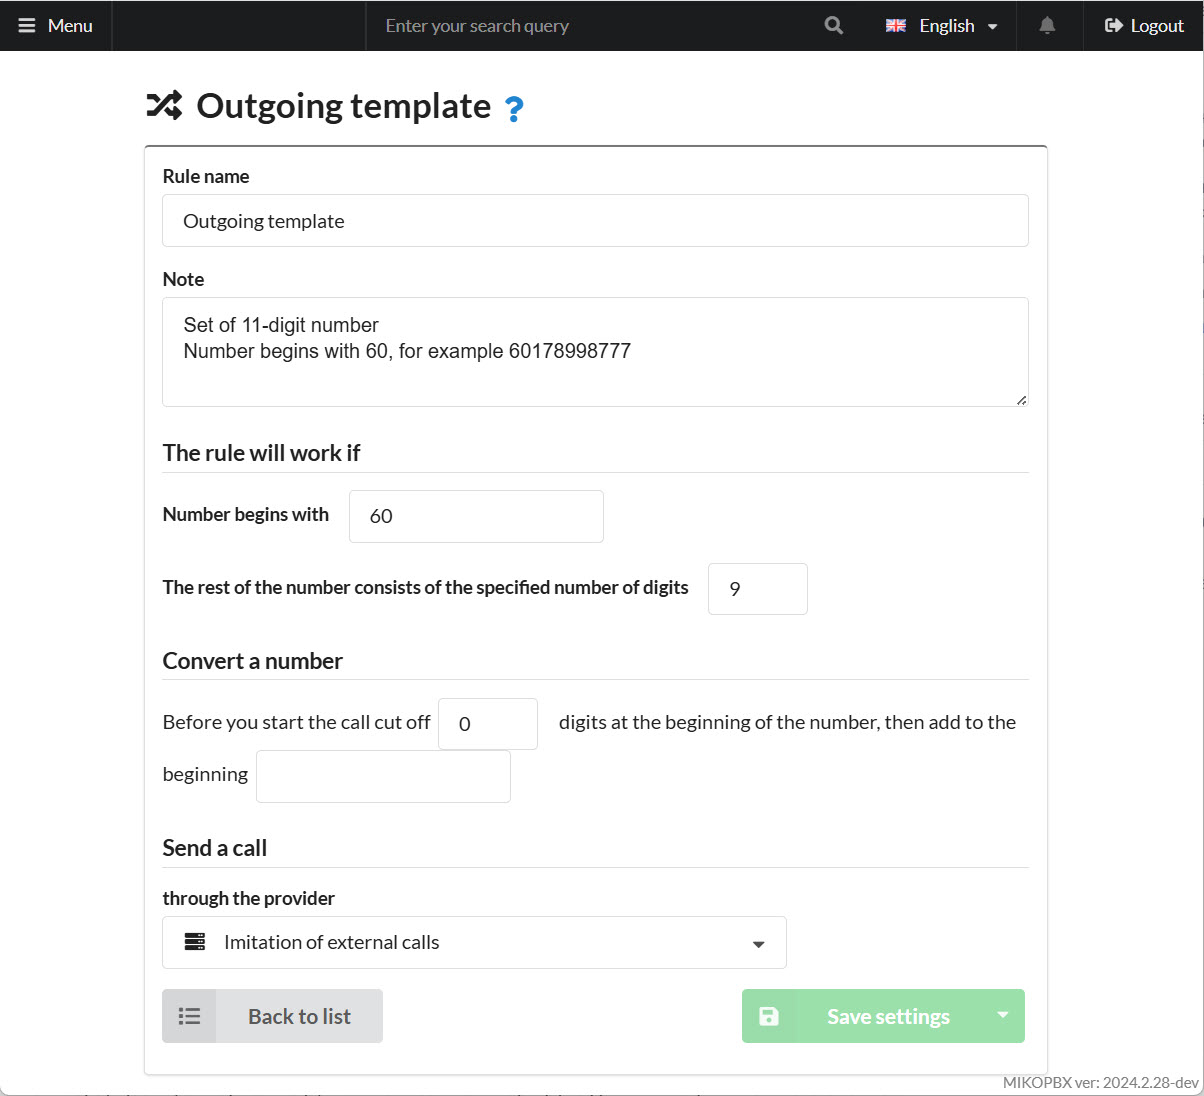
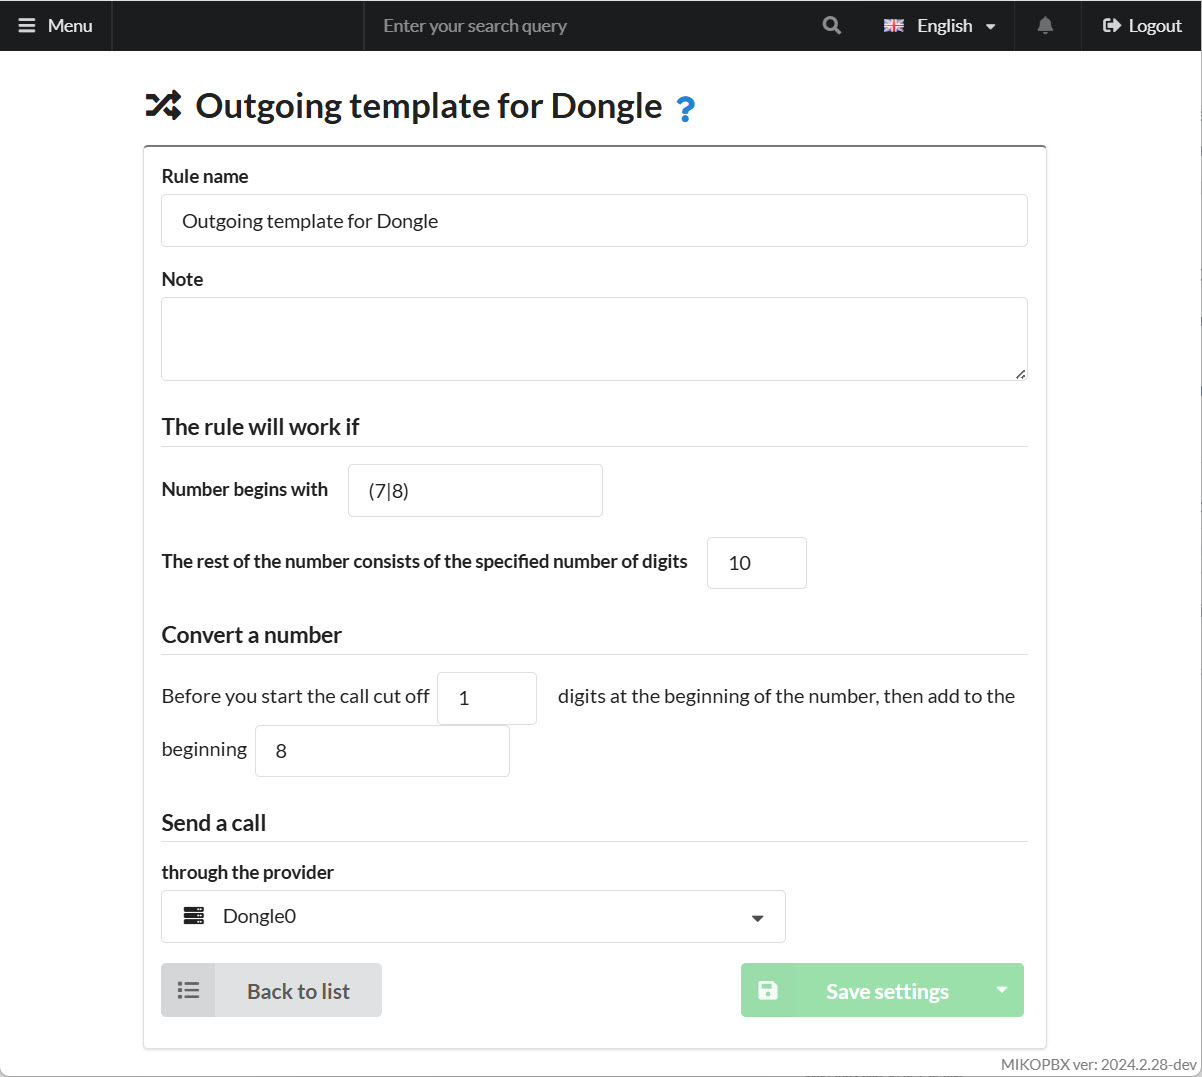
GITBOOK-414: No subject

diff --git a/faq/voip-gateways/calls-through-huawei-e173.md b/faq/voip-gateways/calls-through-huawei-e173.md
@@ -1,0 +1,242 @@
+---
+description: Connecting a Huawei E173 3G USB modem to MikoPBX via chan_dongle
+---
+
+# Using a Huawei E173 USB Modem for Calls (chan\_dongle)
+
+The **Huawei E173** is a USB 3G modem from Huawei that is compatible with the **chan\_dongle** module for Asterisk. By using this modem with chan\_dongle, you can configure Asterisk to make voice calls and send SMS messages over the GSM network, effectively turning the modem into a full-fledged GSM gateway.
+
+{% hint style="warning" %}
+Dongle modems can be unstable. They require reliable, stable power and a strong GSM signal.
+{% endhint %}
+
+## Preparing the USB Modem
+
+1. First, let’s see which USB devices are connected to the PC:
+
+```php
+lsusb
+Bus 001 Device 002: ID 12d1:1001 Huawei Technologies Co., Ltd. E169/E620/E800 HSDPA Modem
+Bus 001 Device 001: ID 1d6b:0002 Linux Foundation 2.0 root hub
+Bus 002 Device 003: ID 0e0f:0002 VMware, Inc. Virtual USB Hub
+Bus 002 Device 002: ID 0e0f:0003 VMware, Inc. Virtual Mouse
+Bus 002 Device 001: ID 1d6b:0001 Linux Foundation 1.1 root hub
+```
+
+We’re interested in the device **"12d1:1001 Huawei Technologies..."**.
+
+* **12d1** – the vendor ID.
+* **1001** – the product ID.
+
+For the modem to function properly, you need to switch it to **"1001"** (modem-only mode).
+
+2. Next, search for device info using the vendor ID **"12d1"**:
+
+```
+dmesg | grep 12d1
+[    2.828272] usb 1-1: New USB device found, idVendor=12d1, idProduct=1001, bcdDevice= 0.00
+```
+
+3. Then check for info by the USB device number **"usb 1-1"**:
+
+```php
+dmesg | grep 'usb 1-1'
+
+[    2.262750] usb 1-1: new high-speed USB device number 2 using ehci-pci
+[    2.828272] usb 1-1: New USB device found, idVendor=12d1, idProduct=1001, bcdDevice= 0.00
+[    2.828479] usb 1-1: New USB device strings: Mfr=3, Product=2, SerialNumber=0
+[    2.828641] usb 1-1: Product: HUAWEI Mobile
+[    2.828754] usb 1-1: Manufacturer: HUAWEI Technology
+[    2.856994] usb 1-1: GSM modem (1-port) converter now attached to ttyUSB0
+[    2.861194] usb 1-1: GSM modem (1-port) converter now attached to ttyUSB1
+[    2.864265] usb 1-1: GSM modem (1-port) converter now attached to ttyUSB2
+```
+
+We see the modem’s serial devices: **ttyUSB0, ttyUSB1, ttyUSB2**.
+
+{% hint style="info" %}
+If these devices appear, half the work is done. If they’re missing, the modem may be in a mode other than **1001**. The product ID can vary with different firmware versions.
+
+On some devices, modem-only mode may appear as **"140c"**.
+{% endhint %}
+
+## Checking the Modem Settings
+
+```
+minicom -D /dev/ttyUSB0
+```
+
+You’ll see something like:
+
+```
+Welcome to minicom 2.8
+
+OPTIONS: I18n
+Compiled on Apr 26 2021, 18:06:16.
+Port /dev/ttyUSB0, 12:30:42
+
+Press CTRL-A Z for help on special keys
+```
+
+You can now enter **AT** commands to manage and configure the modem.
+
+## Example Commands
+
+* **AT^CARDLOCK?** – Checks SIM lock status and the remaining attempts to enter an unlock code. (The modem’s response: `CARDLOCK: A,B,0`. If A=2, modem is unlocked; A=1, locked — SimLock; A=3, you either used all 10 attempts or have a customized firmware. B is the remaining number of attempts, typically 10.)
+* **AT^CARDLOCK="NCK Code"** – Unlock the modem to work with all mobile operators (if you have the code).
+* **AT^CVOICE=?** – Checks the modem’s voice support state (0 means voice is enabled).
+* **AT^CVOICE=0** – Enables voice functions on the modem.
+* **AT^U2DIAG=0** – Switch the modem into **modem-only** mode.
+
+## What to Verify?
+
+1. Confirm the modem **supports voice** functions.
+2. The modem must be in **"modem-only"** mode (ID **1001**).
+3. If possible (and if you have a code), **unlock** the modem for use with any operator.
+
+## chan\_dongle for Asterisk
+
+1. In the MikoPBX web interface, go to **System → Customize System Files**.
+2. Open **`/etc/asterisk/modules.conf`**.
+3. Set the mode to **"Append to the end of the file"**.
+4. Add:
+
+```
+load => chan_dongle.so
+```
+
+5. Open **`/etc/asterisk/dongle.conf`** for editing.
+6. Choose **"Replace Completely"**.
+7. Paste the following configuration:
+
+```php
+[general]
+interval=15
+
+[defaults]
+context=public-direct-dial
+group=0
+rxgain=0
+txgain=0
+autodeletesms=yes
+resetdongle=yes
+u2diag=-1
+usecallingpres=yes
+callingpres=allowed_passed_screen
+disablesms=no
+
+language=en
+smsaspdu=yes
+mindtmfgap=45
+mindtmfduration=80
+mindtmfinterval=200
+
+callwaiting=auto
+disable=no
+initstate=start
+dtmf=relax
+
+[dongle0]
+audio=/dev/ttyUSB1
+data=/dev/ttyUSB2
+```
+
+8. Re-open **`/etc/asterisk/modules.conf`**.
+9. Again choose **"Append to the end of the file"**.
+10. Add contexts for **SMS** and **USSD** handling:
+
+```php
+[dongle-incoming-ussd]
+exten => ussd,1,Noop(Incoming USSD: ${BASE64DECODE(${USSDBASE64})})
+exten => ussd,n,Hangup()
+
+[dongle-incoming-sms]
+exten => sms,1,Noop(Incoming SMS from ${CALLERID(num)} ${BASE64_DECODE(${SMS_BASE64})})
+exten => sms,n,Hangup()
+```
+
+11. After configuring **dongle.conf**, you must **restart** your PBX.
+
+{% hint style="info" %}
+**Helpful resources:**
+
+* See the [dongle.conf file](https://github.com/haha8x/asterisk-chan-dongle-16/blob/master/etc/dongle.conf) for a description of configuration and options.
+* More details in [chan\_dongle documentation](https://asterisk-service.com/en_US/page/chan-dongle-use).
+{% endhint %}
+
+{% hint style="danger" %}
+* **dongle0** is an arbitrary name of the line. It will be used in the Dial command for outgoing calls.
+* **audio** and **data** are the TTY device paths discovered in the previous step. You may need to swap them if there’s no audio.
+{% endhint %}
+
+## Configuring DID
+
+Each **dongle** requires a DID number for correct inbound call handling.
+
+1. Enter the Asterisk console:
+
+```bash
+asterisk -r
+```
+
+2. List the dongle devices:
+
+```
+mikopbx*CLI> dongle show devices
+ID      Group State RSSI Model Firmware         IMEI IMSI Number
+dongle0 0     Free  12   E173  11.126.15.00.209 ***  ***  79255283744
+```
+
+3. If the `Number` column is empty, run:
+
+```bash
+dongle cmd dongle0 AT+CPBS="ON"
+dongle cmd dongle0 AT+CPBW=1,"79255283744",145
+```
+
+{% hint style="warning" %}
+Replace **dongle0** with your line’s identifier, and **"79255283744"** with the SIM’s phone number.&#x20;
+{% endhint %}
+
+Restart your PBX afterwards.
+
+## Configuring an Inbound Route
+
+1. In the web interface, go to **Call** **Routing → Incoming Routing**.
+
+<figure><img src="../../.gitbook/assets/IncomingRoutingSection.png" alt=""><figcaption><p>"Incoming routing" section</p></figcaption></figure>
+
+2. Create a new rule. In the DID field, specify the SIM’s phone number you set earlier:
+
+<figure><img src="../../.gitbook/assets/didInwardDialingNumber.jpg" alt=""><figcaption><p>DID Number field</p></figcaption></figure>
+
+## Configuring Outbound Routes
+
+1. In **Call** **Routing → Providers**, create a new **SIP** account with:
+   * **Name** – “Dongle0” (or any name)
+   * **Host or IP** – **127.0.0.1**
+   * **Account Type** – “Authentication by IP address, no password”
+
+<figure><img src="../../.gitbook/assets/providerParameters.jpg" alt=""><figcaption><p>Provider Parameters</p></figcaption></figure>
+
+2. Copy the **Provider ID** from the browser address bar (e.g., **SIP-TRUNK-C4153448**).
+
+<figure><img src="../../.gitbook/assets/providerIdentificator.jpg" alt=""><figcaption><p>Provider ID</p></figcaption></figure>
+
+3. In **Call** **Routing → Outbound Routing**, create a new rule for sending calls via the modem:
+
+<figure><img src="../../.gitbook/assets/outgoingTemplate.jpg" alt=""><figcaption><p>Outbound route</p></figcaption></figure>
+
+4. Go to **System → System file customization** and open **`/etc/asterisk/extensions.conf`**. Choose “**Add to end of file**” and add:
+
+```php
+[SIP-TRUNK-C4153448-outgoing-custom]
+exten => _[0-9*#+]!,1,Set(DIAL_COMMAND=Dongle/dongle0/${number})
+ same => n,return
+```
+
+{% hint style="info" %}
+Replace **SIP-TRUNK-C4153448** and **dongle0** with your IDs.
+{% endhint %}
+
+<figure><img src="../../.gitbook/assets/contextForExtensionsConf.jpg" alt=""><figcaption><p>Code for the file "extensions.conf"</p></figcaption></figure>

diff --git a/faq/voip-gateways/goip4.md b/faq/voip-gateways/goip4.md
@@ -22,7 +22,7 @@ In this example, the GoIP4 gateway will register to MikoPBX.&#x20;
 * **Username** – The provider ID (e.g., “SIP-TRUNK-53A707FC”)
 * **Password** – A strong password for gateway registration on MikoPBX
 
-<figure><img src="../../.gitbook/assets/providerParameters (1).jpg" alt=""><figcaption><p>Provider Parameters</p></figcaption></figure>
+<figure><img src="../../.gitbook/assets/providerParameters (1) (1).jpg" alt=""><figcaption><p>Provider Parameters</p></figcaption></figure>
 
 2. In the provider’s **Advanced Settings**, under **Advanced Options**, add:
 

diff --git a/faq/cases/simulation-of-external-calls.md b/faq/cases/simulation-of-external-calls.md
@@ -79,7 +79,7 @@ For the simulation provider to work properly, you must define both incoming and 
 
 ### Outbound Routing
 
-<figure><img src="../../.gitbook/assets/outgoingTemplate (1).jpg" alt=""><figcaption><p>Outgoing Template</p></figcaption></figure>
+<figure><img src="../../.gitbook/assets/outgoingTemplate (1) (1).jpg" alt=""><figcaption><p>Outgoing Template</p></figcaption></figure>
 
 Alternatively, you can manually describe a route for simulating external calls (add this at the end of the **"extensions.conf"** file in **"System file customization"**):
 

diff --git a/faq/interconnections/mikopbx-and-freepbx-iax.md b/faq/interconnections/mikopbx-and-freepbx-iax.md
@@ -23,7 +23,7 @@ description: Instructions for connecting multiple PBX systems
 
 Save the parameters.
 
-<figure><img src="../../.gitbook/assets/providerParameters (1) (1).jpg" alt=""><figcaption><p>Provider Parameters 1</p></figcaption></figure>
+<figure><img src="../../.gitbook/assets/providerParameters (1) (1) (1).jpg" alt=""><figcaption><p>Provider Parameters 1</p></figcaption></figure>
 
 4. After saving, you’ll see the **provider ID** in the browser’s address bar. Copy it into the **Username** field:
 

diff --git a/SUMMARY.md b/SUMMARY.md
@@ -173,6 +173,7 @@
 * [VoIP gateways](faq/voip-gateways/README.md)
   * [GoIP4](faq/voip-gateways/goip4.md)
   * [Grandstream HT503](faq/voip-gateways/grandstream-ht503.md)
+  * [Using a Huawei E173 USB Modem for Calls (chan\_dongle)](faq/voip-gateways/calls-through-huawei-e173.md)
 
 ## Modules
 
